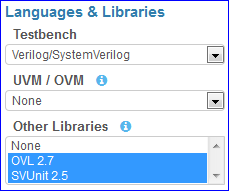
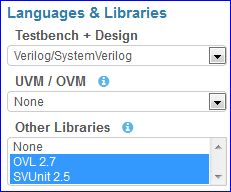
Added documentation for Python MyHDL.

diff --git a/docs/settings.rst b/docs/settings.rst
@@ -14,19 +14,21 @@ Languages & Libraries
 =====================
 
 This section allows selection of coding languages and the available libraries for those languages.
-Currently, the design (right editor pane) must be Verilog/SystemVerilog.
 
 .. image:: _static/languages_libraries_1.png
 
 .. image:: _static/languages_libraries_2.png
 
-Testbench
----------
+.. image:: _static/languages_libraries_3.png
 
-The testbench (left editor pane) may be written using one of these languages:
+Testbench + Design
+------------------
 
-* Verilog/SystemVerilog
-* Python 2.7
+The testbench (left editor pane) and design (right editor pane) may be written using one of these languages:
+
+* Verilog/SystemVerilog for both
+* Python 2.7 for testbench, and Verilog/SystemVerilog for design
+* Python 2.7 for both
 
 UVM / OVM
 ---------
@@ -49,10 +51,14 @@ These libraries may be used along with UVM. Multiple libraries may be selected a
 Methodology
 -----------
 
-When testbench language is *Python 2.7*, the following verification environments are available:
+When testbench language is *Python 2.7* and design language is *Verilog/SystemVerilog*, the following verification environments are available:
 
 * cocotb 0.3
 * cocotb 0.2
+
+When testbench and design language is *Python 2.7*, the following methodologies are available:
+
+* MyHDL 0.8
 
 .. _tools-simulators-options-label:
 
@@ -96,6 +102,12 @@ This simulator will only do the compile step. The run step is currently not avai
 
 Additional command-line *compile options* may be specified in the bottom textbox.
 
+Python
+------
+
+This is a standard Python compiler. It is used when both testbench and design are written in *Python*.
+Currently, no additional options are available for Python.
+
 Details
 =======
 
@@ -122,7 +134,7 @@ view this playground. When unchecked, only the creator will be able to view the 
 Examples
 ========
 
-Links code examples created on EDA Playground. Some examples may have additional documentation provided in the *(docs)* link.
+Links to code examples created on EDA Playground. Some examples may have additional documentation provided in the *(docs)* link.
 
 .. image:: _static/examples.png
 
@@ -210,4 +222,4 @@ Also, it displays buttons for sharing on Twitter, Facebook, or LinkedIn.
 About
 =====
 
-Link to EDA Playground documentation.
+Links to EDA Playground documentation (these pages).

diff --git a/docs/intro.rst b/docs/intro.rst
@@ -90,11 +90,12 @@ On public `EDA Playground -- The FREE Verilog IDE <http://www.edaplayground.com>
 * `GPL Cver <http://sourceforge.net/projects/gplcver/>`_
 * `VeriWell <http://sourceforge.net/projects/veriwell/>`_
 * `Questa SIM <http://www.mentor.com/products/fv/questa/>`_ (compile only)
+* `Python Compiler <http://www.python.org/>`_
 
 On private **EDA Playground**
 =============================
 
-* All simulators available on public version.
+* All simulators/tools available on public version.
 * Any additional simulators/tools that your company/university has licenses for or developed in-house.
 
 *************************
@@ -109,6 +110,11 @@ Available libraries and methodologies:
   VHDL and Verilog testbenches in Python
 
   * `cocotb on GitHub <https://github.com/potentialventures/cocotb>`_
+
+* `MyHDL <http://www.myhdl.org>`_ - a Python based hardware description language (HDL)
+
+  * `MyHDL Manual <http://www.myhdl.org/doc/current/>`_
+  * `MyHDL on Bitbucket <https://bitbucket.org/jandecaluwe/myhdl>`_
 
 * OVL - Open Verification Library
 
